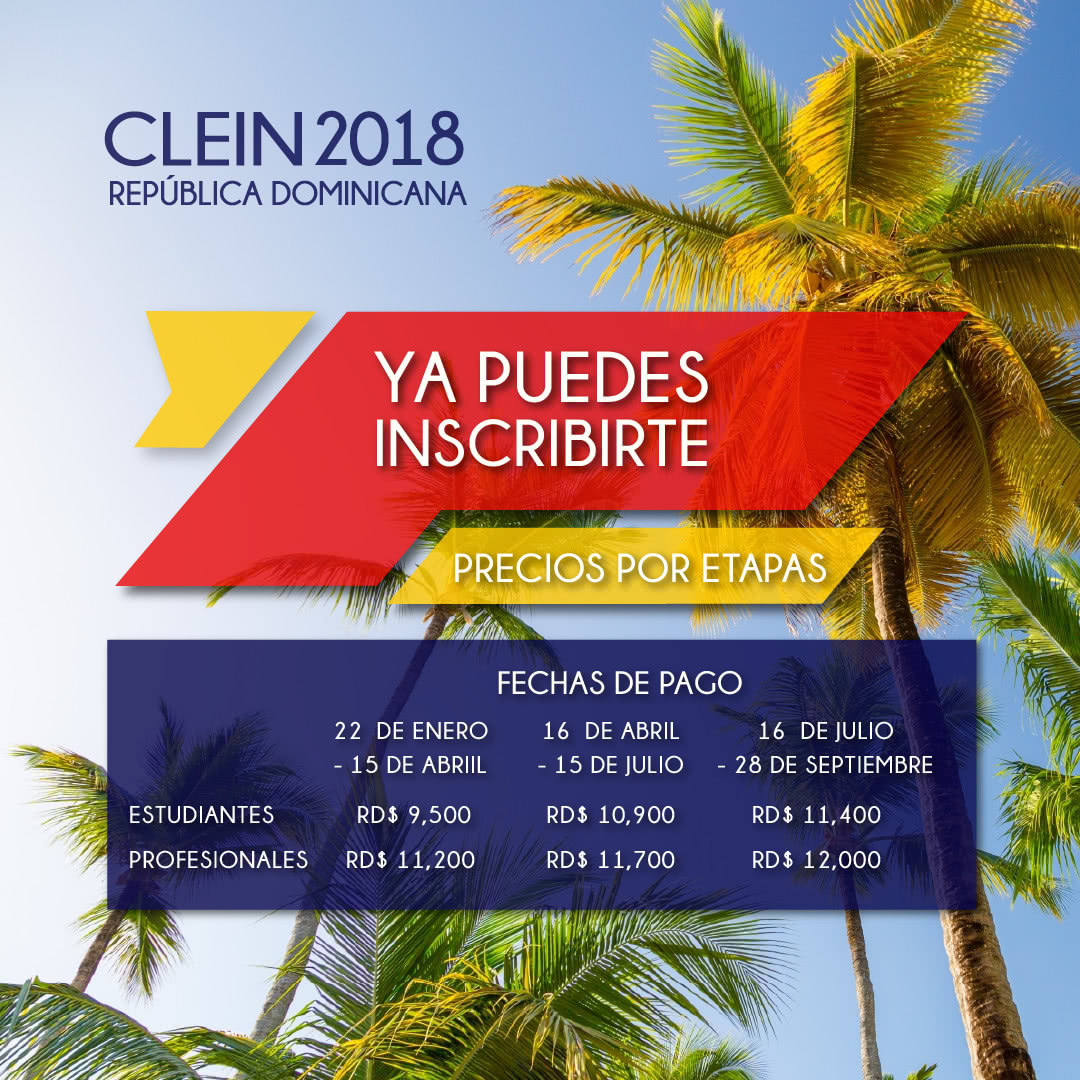
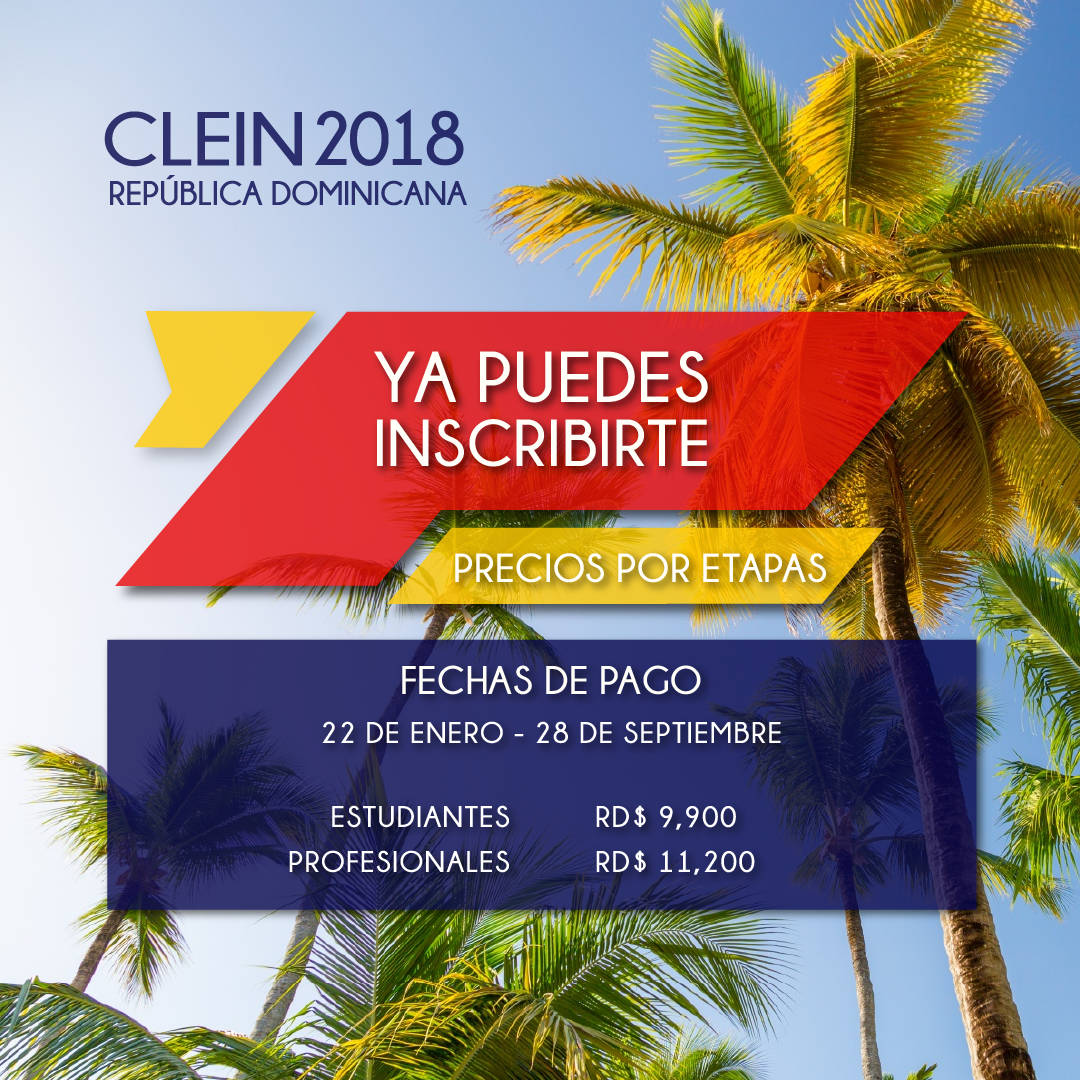
Cambio en los montos de inscripción para los nacionales de Dominicana

diff --git a/inc/calcularmonto.php b/inc/calcularmonto.php
@@ -40,9 +40,9 @@ function calculo($estudiante, $card) {
         if ($fecha >= $periodotres) {
             $etapa="Tercer Etapa";
             if ($estudiante=="Estudiante") {
-                $precio = "11400";
+                $precio = "9900";
             } else{
-                $precio = "12000";
+                $precio = "11200";
             }
         }
     }else{
